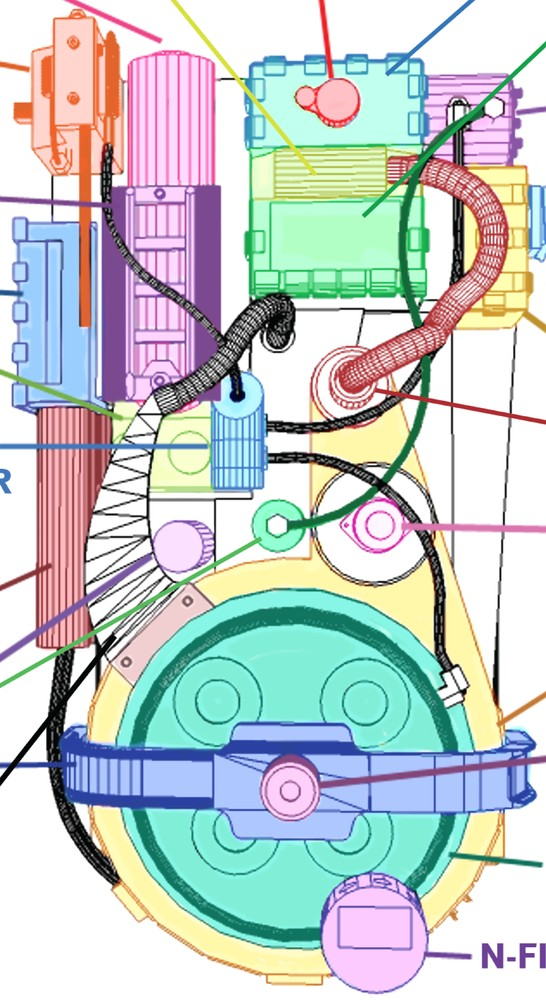
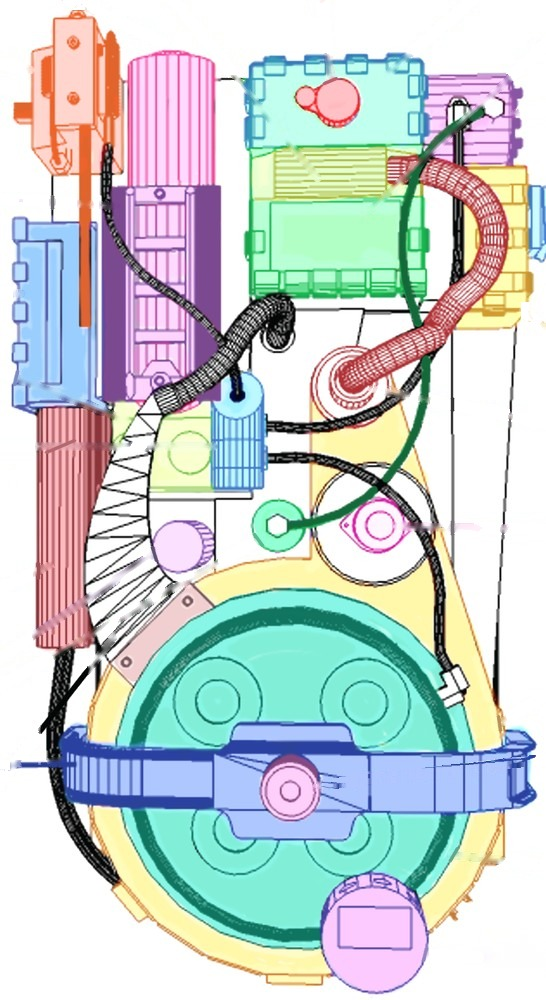
Pack diagram: remove leftover pointer lines and label fragments
Claude-Session: https://claude.ai/code/session_01SGEQbkHCGy9YkiE3rmD96k

diff --git a/pack.html b/pack.html
@@ -30,7 +30,7 @@
   const S = {
     crew: { short: 'LAGB' }, me, people: [me], rsvps: [],
     settings: { pack_monitor: {
-      diagram: 'img/pack-diagram.jpg?v=2',
+      diagram: 'img/pack-diagram.jpg?v=3',
       marks: { booster: [31.5, 22], ion_arm: [11.4, 11], power_cell: [8.7, 31.5], ppd: [43.6, 46.2], injectors: [12.8, 59.3], hga: [86.6, 11], crank: [57, 6], cyclotron: [27, 89], n_filter: [67.8, 93], sync_gen: [89.9, 59], heatsink: [91.3, 31], ribbon: [13.4, 79.1] },
       lights: [[39.7, 69.7], [66.8, 69.7], [62.3, 83.5, 40], [43, 83.5, 40]]
     } }
